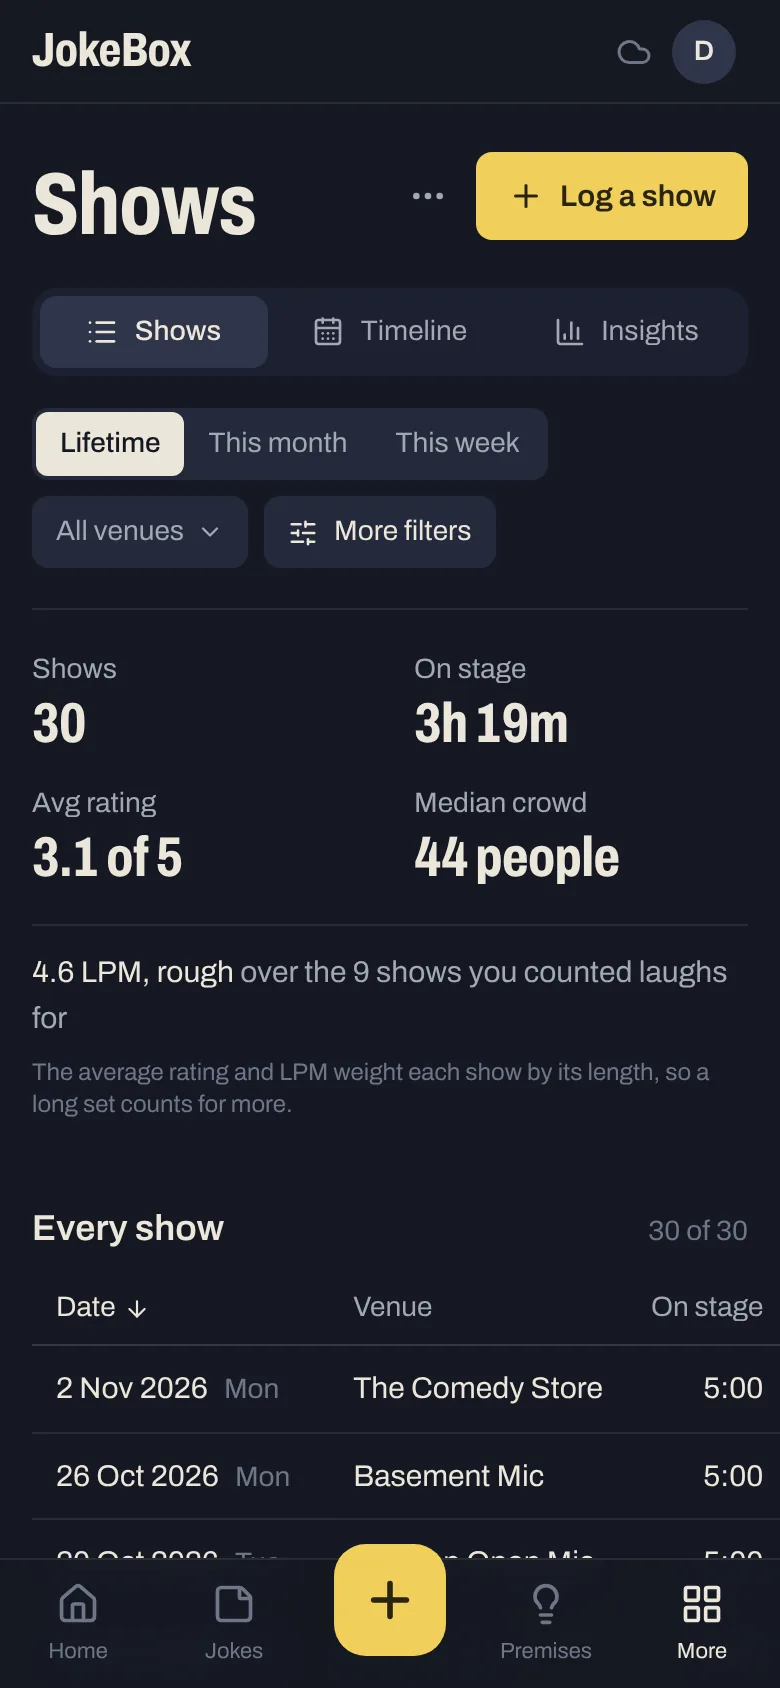
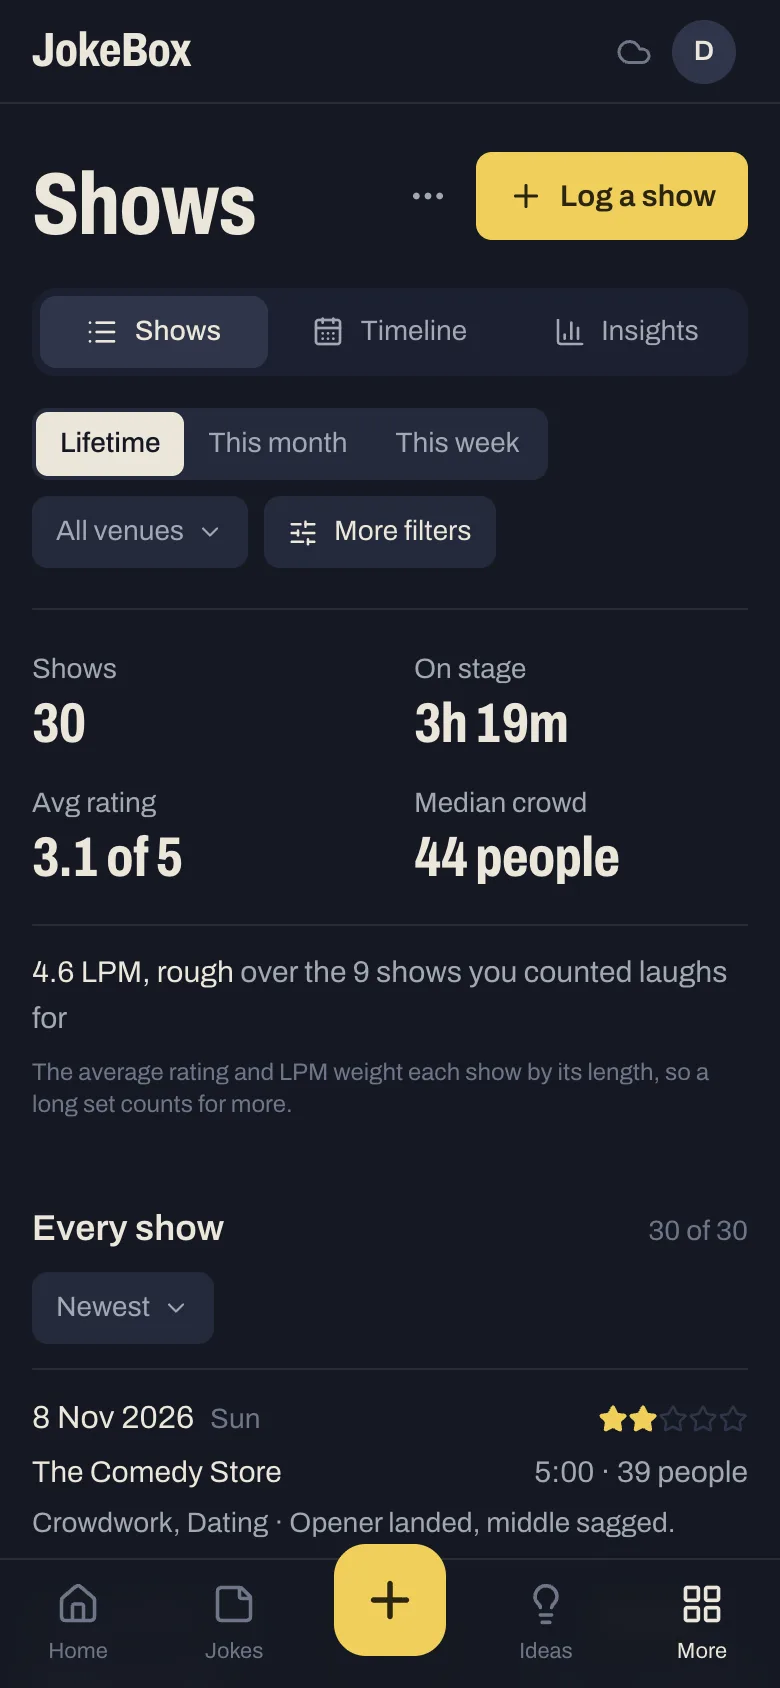
fix(web): Shows as a list on phones, a not-found page, CSV text kept as text (#136)
## What changed

- **Shows on a phone is a list, not a table.** Each show is a row: date and stars, then venue, time on stage and crowd, then topics and remarks on one line. A **Sort** menu (Newest, Oldest, Best rated, Lowest rated, Longest on stage, Biggest crowd, Venue A to Z) stands in for the column headings. From tablet width up the table is unchanged.
- **A not-found page.** An unknown address shows "Nothing at this address" inside the app frame, with **Go to Home** and **Search**. Addresses from the first version (`/bits`, `/studio`, `/setlist`, `/performance`) still redirect.
- **CSV export keeps text as text.** A cell starting with `=`, `+`, `-` or `@` gets an apostrophe in front; numbers are left alone. A lone carriage return is now quoted.

## Why

Found in an audit of the app at phone, iPad and laptop sizes:

- At 390px the Shows table showed only Date, Venue and On stage. Rating and crowd were off to the right with no hint that the table scrolled.
- An old or mistyped link silently showed Home, which looked as if the link had worked.
- A remark or punchline starting with `-` or `=` opened in Excel as `#NAME?`.

## How it was tested

- ruff, mypy, pytest (271), tsc, oxlint, vitest (313, one new CSV test) and a production build all pass.
[…]

diff --git a/web/src/features/shows/ShowCards.tsx b/web/src/features/shows/ShowCards.tsx
@@ -1,0 +1,62 @@
+/**
+ * Every show as a list, for a phone: the date and stars on top, then the venue, time on stage and
+ * crowd, so how a night went reads without scrolling sideways. Tap one to open it. The Sort menu
+ * does what the table's headings do on a wider screen (ShowsTable).
+ */
+import type { PerformanceLog } from '../../api/types'
+import { Dropdown } from '../../components/ui/Menu'
+import { Stars } from '../../components/ui/pieces'
+import { clock } from '../../lib/duration'
+import { formatDate } from '../../lib/time'
+import { MenuButton } from '../jokes/JokeFilters'
+import { weekday, type Sort } from './logMath'
+
+interface Props {
+  logs: PerformanceLog[]
+  sort: Sort
+  onSort: (sort: Sort) => void
+  onOpen: (log: PerformanceLog) => void
+  topicNames: (ids: string[]) => string
+}
+
+const SORTS: { label: string; sort: Sort }[] = [
+  { label: 'Newest', sort: { key: 'date', desc: true } },
+  { label: 'Oldest', sort: { key: 'date', desc: false } },
+  { label: 'Best rated', sort: { key: 'rating', desc: true } },
+  { label: 'Lowest rated', sort: { key: 'rating', desc: false } },
+  { label: 'Longest on stage', sort: { key: 'duration', desc: true } },
+  { label: 'Biggest crowd', sort: { key: 'audience', desc: true } },
+  { label: 'Venue, A to Z', sort: { key: 'venue', desc: false } },
+]
+
+const same = (a: Sort, b: Sort) => a.key === b.key && a.desc === b.desc
+
+export function ShowCards({ logs, sort, onSort, onOpen, topicNames }: Props) {
+  const current = SORTS.find((s) => same(s.sort, sort))
+  const items = SORTS.map((s) => ({ label: s.label, checked: same(s.sort, sort), onSelect: () => onSort(s.sort) }))
+  return (
+    <div className="sm:hidden">
+      <Dropdown align="start" items={items} trigger={<span><MenuButton label={current?.label ?? 'Sort'} on={false} /></span>} />
+      <ul className="mt-3 divide-y divide-rule border-y border-rule">
+        {logs.map((l) => {
+          const more = [topicNames(l.topic_ids), l.notes].filter(Boolean).join(' · ')
+          return (
+            <li key={l.id}>
+              <button type="button" onClick={() => onOpen(l)} className="block w-full py-3 text-left active:bg-ink-2">
+                <span className="flex items-center justify-between gap-3">
+                  <span className="tabular">{formatDate(l.performed_at)}<span className="ml-2 text-sm text-faint">{weekday.format(new Date(l.performed_at))}</span></span>
+                  <Stars rating={l.rating} size={15} />
+                </span>
+                <span className="mt-1 flex items-baseline justify-between gap-3 text-[15px]">
+                  <span className="min-w-0 truncate">{l.venue_name}</span>
+                  <span className="tabular shrink-0 text-dim">{clock(l.duration_seconds)}{l.audience_size ? ` · ${l.audience_size} people` : ''}</span>
+                </span>
+                {more && <span className="mt-1 block truncate text-sm text-dim">{more}</span>}
+              </button>
+            </li>
+          )
+        })}
+      </ul>
+    </div>
+  )
+}

diff --git a/web/src/features/shows/ShowsTable.tsx b/web/src/features/shows/ShowsTable.tsx
@@ -1,14 +1,15 @@
 /**
  * Every show as a table, like a Notion database. Click a column heading to sort by it (click again
- * to flip the order), click a row to open the show. On a phone the table scrolls sideways and the
- * date column stays pinned on the left.
+ * to flip the order), click a row to open the show. From tablet width up; a phone gets the same
+ * shows as a list (ShowCards), since the rating sat off-screen there. Where the table is still
+ * wider than the screen it scrolls sideways and the date column stays pinned on the left.
  */
 import { ArrowDown, ArrowUp } from 'lucide-react'
 import type { PerformanceLog } from '../../api/types'
 import { Stars } from '../../components/ui/pieces'
 import { clock } from '../../lib/duration'
 import { formatDate } from '../../lib/time'
-import type { Sort, SortKey } from './logMath'
+import { weekday, type Sort, type SortKey } from './logMath'
 
 interface Props {
   logs: PerformanceLog[]
@@ -18,7 +19,6 @@ interface Props {
   topicNames: (ids: string[]) => string
 }
 
-const weekday = new Intl.DateTimeFormat('en-IN', { timeZone: 'Asia/Kolkata', weekday: 'short' })
 const pinned = 'sticky left-0 z-10 bg-ink group-hover:bg-ink-2'
 
 function Heading({ k, label, sort, onSort, right, className = '' }: { k?: SortKey; label: string; sort: Sort; onSort: (k: SortKey) => void; right?: boolean; className?: string }) {
@@ -38,7 +38,7 @@ function Heading({ k, label, sort, onSort, right, className = '' }: { k?: SortKe
 export function ShowsTable({ logs, sort, onSort, onOpen, topicNames }: Props) {
   const head = { sort, onSort }
   return (
-    <div className="-mx-4 overflow-x-auto px-4 sm:mx-0 sm:px-0">
+    <div className="hidden overflow-x-auto sm:block">
       <table className="w-full min-w-[760px] text-left text-[15px]">
         <thead className="border-b border-rule-strong text-sm text-dim">
           <tr>

diff --git a/web/src/App.tsx b/web/src/App.tsx
@@ -41,6 +41,7 @@ const DailyPage = named(() => import('./features/daily/DailyPage'), 'DailyPage')
 const TrashPage = named(() => import('./features/trash/TrashPage'), 'TrashPage')
 const ImportPage = named(() => import('./features/import/ImportPage'), 'ImportPage')
 const SearchPage = named(() => import('./features/search/SearchPage'), 'SearchPage')
+const NotFoundPage = named(() => import('./layout/NotFoundPage'), 'NotFoundPage')
 
 const full = (el: React.ReactNode) => <RequireAuth>{el}</RequireAuth>
 
@@ -87,6 +88,8 @@ export function App() {
           <Route path="trash" element={<TrashPage />} />
           <Route path="import" element={<ImportPage />} />
           <Route path="search" element={<SearchPage />} />
+          {/* Any other address: say so, with the way back, instead of quietly showing Home. */}
+          <Route path="*" element={<NotFoundPage />} />
         </Route>
         {/* Full-screen modes without the app frame. */}
         {/* A session can turn into a joke, so it has the New joke sheet too. */}
@@ -99,7 +102,6 @@ export function App() {
         <Route path="/studio/*" element={<Navigate to="/jokes" replace />} />
         <Route path="/setlist/*" element={<Navigate to="/sets" replace />} />
         <Route path="/performance" element={<Navigate to="/shows" replace />} />
-        <Route path="*" element={<Navigate to="/" replace />} />
       </Routes>
     </Suspense>
   )

diff --git a/web/src/features/shows/ShowsPage.tsx b/web/src/features/shows/ShowsPage.tsx
@@ -23,6 +23,7 @@ import { NO_FILTERS, PAGE_SIZE, applyFilters, sortLogs, type Sort, type SortKey 
 import { ShowDetail } from './ShowDetail'
 import { ShowFilters } from './ShowFilters'
 import { ShowStats } from './ShowStats'
+import { ShowCards } from './ShowCards'
 import { ShowsTable } from './ShowsTable'
 import { ShowsToolbar } from './ShowsToolbar'
 import { VenuesSheet } from './VenuesSheet'
@@ -86,6 +87,7 @@ export function ShowsPage() {
           <EmptyState title={logs.length ? 'No shows match' : 'No shows yet'}>{logs.length ? 'Try a longer period or clear a filter.' : 'After your next spot, log it here. It takes under a minute.'}</EmptyState>
         ) : (
           <>
+            <ShowCards logs={rows.slice(0, limit)} sort={sort} onSort={setSort} onOpen={setViewing} topicNames={topicNames} />
             <ShowsTable logs={rows.slice(0, limit)} sort={sort} onSort={sortBy} onOpen={setViewing} topicNames={topicNames} />
             {rows.length > limit && <Button className="mt-4 w-full" onClick={() => setLimit((n) => n + PAGE_SIZE)}>Show {Math.min(PAGE_SIZE, rows.length - limit)} more</Button>}
           </>

diff --git a/web/src/layout/NotFoundPage.tsx b/web/src/layout/NotFoundPage.tsx
@@ -1,0 +1,25 @@
+/**
+ * An address that isn't a JokeBox page: an old link, or a mistyped one. It used to show Home
+ * without a word, which looked like the link had worked. This says so and offers the way back.
+ */
+import { Link, useLocation } from 'react-router'
+import { EmptyState } from '../components/ui/pieces'
+
+export function NotFoundPage() {
+  const { pathname } = useLocation()
+  return (
+    <div className="mx-auto max-w-2xl">
+      <EmptyState
+        title="Nothing at this address"
+        action={
+          <div className="flex flex-wrap gap-2">
+            <Link to="/" className="inline-flex h-11 items-center rounded-lg bg-tape px-5 font-semibold text-tape-ink hover:bg-[#f5da77]">Go to Home</Link>
+            <Link to="/search" className="inline-flex h-11 items-center rounded-lg px-5 text-dim hover:bg-ink-3 hover:text-paper">Search</Link>
+          </div>
+        }
+      >
+        <span className="break-all text-paper">{pathname}</span> isn’t a page in JokeBox. The link may be old or mistyped. Everything you’ve written is where you left it.
+      </EmptyState>
+    </div>
+  )
+}

diff --git a/web/src/lib/csv.ts b/web/src/lib/csv.ts
@@ -1,8 +1,12 @@
 /** Build a CSV file in the browser and download it (works offline too). */
 
+/** A spreadsheet runs text that starts with one of these as a formula: "- so I said" opens as #NAME?. */
+const FORMULA_START = /^[=+\-@\t\r]/
+
 function cell(value: string | number): string {
-  const text = String(value)
-  return /[",\n]/.test(text) ? `"${text.replace(/"/g, '""')}"` : text
+  // An apostrophe in front tells the spreadsheet it's text. Numbers are left alone, minus sign and all.
+  const text = typeof value === 'string' && FORMULA_START.test(value) ? `'${value}` : String(value)
+  return /[",\n\r]/.test(text) ? `"${text.replace(/"/g, '""')}"` : text
 }
 
 export function toCsv(headers: string[], rows: (string | number)[][]): string {

diff --git a/web/src/features/shows/logMath.ts b/web/src/features/shows/logMath.ts
@@ -46,6 +46,9 @@ export const NO_FILTERS: LogFilters = { period: 'all', venues: [], from: '', to:
 export const extraFilterCount = (f: LogFilters): number =>
   [f.from, f.to, f.rating, f.duration, f.audience].filter((v) => v !== '' && v !== null).length
 
+/** The day of the week a show was on, in India time: "Sun". */
+export const weekday = new Intl.DateTimeFormat('en-IN', { timeZone: 'Asia/Kolkata', weekday: 'short' })
+
 export type SortKey = 'date' | 'venue' | 'duration' | 'audience' | 'rating'
 
 export interface Sort {

diff --git a/web/src/lib/lib.test.ts b/web/src/lib/lib.test.ts
@@ -35,6 +35,12 @@ describe('csv', () => {
   it('quotes commas, quotes and newlines', () => {
     expect(toCsv(['a', 'b'], [['x, y', 'say "hi"\nok']])).toBe('a,b\n"x, y","say ""hi""\nok"')
   })
+
+  it('keeps text that looks like a formula as text, and leaves numbers alone', () => {
+    expect(toCsv(['a'], [['- so I said'], ['=SUM(A1)'], ['+1'], ['@home'], [-5], ['fine - really']])).toBe(
+      "a\n'- so I said\n'=SUM(A1)\n'+1\n'@home\n-5\nfine - really",
+    )
+  })
 })
 
 describe('months', () => {

diff --git a/docs/screens-perform.md b/docs/screens-perform.md
@@ -69,7 +69,7 @@ each with its setup in marker, the punchline, its runtime and "by m:ss" (the run
 
 [ShowsPage.tsx](../web/src/features/shows/ShowsPage.tsx), [ShowsToolbar.tsx](../web/src/features/shows/ShowsToolbar.tsx),
 [ShowFilters.tsx](../web/src/features/shows/ShowFilters.tsx), [ShowStats.tsx](../web/src/features/shows/ShowStats.tsx),
-[ShowsTable.tsx](../web/src/features/shows/ShowsTable.tsx), [ShowDetail.tsx](../web/src/features/shows/ShowDetail.tsx),
+[ShowsTable.tsx](../web/src/features/shows/ShowsTable.tsx), [ShowCards.tsx](../web/src/features/shows/ShowCards.tsx), [ShowDetail.tsx](../web/src/features/shows/ShowDetail.tsx),
 [LogShowSheet.tsx](../web/src/features/shows/LogShowSheet.tsx), [logMath.ts](../web/src/features/shows/logMath.ts),
 [logStats.ts](../web/src/features/shows/logStats.ts).
 
@@ -106,8 +106,14 @@ each with its setup in marker, the punchline, its runtime and "by m:ss" (the run
   - The charts are hand-drawn SVG and HTML (no chart library), with colours checked for colour-blind
     safety on the dark surface ([vizColors.ts](../web/src/features/shows/insights/vizColors.ts));
     every mark shows a readout on hover or keyboard focus.
-- **Table:** Date, Venue, On stage, Crowd, Rating, Topics and Remarks. Click a heading to sort and
-  click again to flip the order. On a phone the table scrolls sideways with the date pinned.
+- **Table** (tablet width up): Date, Venue, On stage, Crowd, Rating, Topics and Remarks. Click a
+  heading to sort and click again to flip the order. Where it's wider than the screen it scrolls
+  sideways with the date pinned.
+- **On a phone** the same shows are a list ([ShowCards.tsx](../web/src/features/shows/ShowCards.tsx)):
+  the date and stars, then the venue, time on stage and crowd, then topics and remarks on one line.
+  Tap one to open it. A **Sort** menu (Newest, Oldest, Best rated, Lowest rated, Longest on stage,
+  Biggest crowd, Venue A to Z) stands in for the headings. It was a table here too until the
+  rating turned out to sit off-screen, with nothing to say the table scrolled.
 - **Log a show** (a sheet, also opened by `?log=1`): venue, stars and length up top (separate minutes and seconds boxes, so a 10 minute spot is just "10"). Optional: the
   sets you did (none, one or more: their topics are ticked, time on stage is left to you,
   [setPick.ts](../web/src/features/shows/setPick.ts)), date and time, crowd and remarks.
@@ -129,7 +135,9 @@ each with its setup in marker, the punchline, its runtime and "by m:ss" (the run
 - ⋯ → **Venues** ([VenuesSheet.tsx](../web/src/features/shows/VenuesSheet.tsx)): every venue with how
   many shows and sets use it. Delete an unused one straight away; for one in use, pick the venue its
   shows and sets move to first, which is also how to merge duplicates.
-- ⋯ → **Export as CSV**.
+- ⋯ → **Export as CSV**. Text a spreadsheet would run as a formula (a remark starting with `-`, `=`,
+  `+` or `@`, which opened as `#NAME?`) gets an apostrophe in front, so it stays text
+  ([csv.ts](../web/src/lib/csv.ts)). The jokes export does the same.
 
 <img src="screenshots/desktop-shows.webp" alt="Shows">
 <img src="screenshots/desktop-log-show.webp" alt="Logging a show, with how one joke went and a comment">

diff --git a/docs/frontend.md b/docs/frontend.md
@@ -282,6 +282,11 @@ flowchart LR
 
 ## When the app crashes
 
+- **An address that isn't a page** ([NotFoundPage.tsx](../web/src/layout/NotFoundPage.tsx)): not a
+  crash, but the same rule, say what happened. Any unknown URL shows "Nothing at this address"
+  inside the app frame, with **Go to Home** and **Search**. It used to redirect to Home, which
+  looked as if an old or mistyped link had worked. Addresses from the first version (`/bits`,
+  `/studio`, `/setlist`, `/performance`) still redirect to their new pages.
 - **An error screen, not a blank one** ([CrashScreen.tsx](../web/src/layout/CrashScreen.tsx)): an
   error boundary around the whole app. If a component throws while rendering, it shows "Something
   broke" with **Reload**, **Reload a fresh copy**, and the error under "What went wrong" with

diff --git a/docs/user-flows.md b/docs/user-flows.md
@@ -177,7 +177,8 @@ through everything you've written at once.
 2. Read the four totals: number of shows, time on stage, average rating and median crowd. The
    rating is weighted by stage time, so a 20-minute set counts more than a 3-minute one.
 3. **More filters** adds a date range, stars, set length and crowd size bands.
-4. Sort the table by any column, and tap a row to read, edit or delete the show.
+4. Sort the table by any column, and tap a row to read, edit or delete the show. On a phone the
+   shows are a list, with a **Sort** menu in place of the headings.
 5. Use ⋯ → **Export as CSV** for a spreadsheet. Jokes have the same export.
 6. Switch to **Timeline** for the mic diary (every day you went up), shows per month by rating and
    your rating over your last 10 shows.
